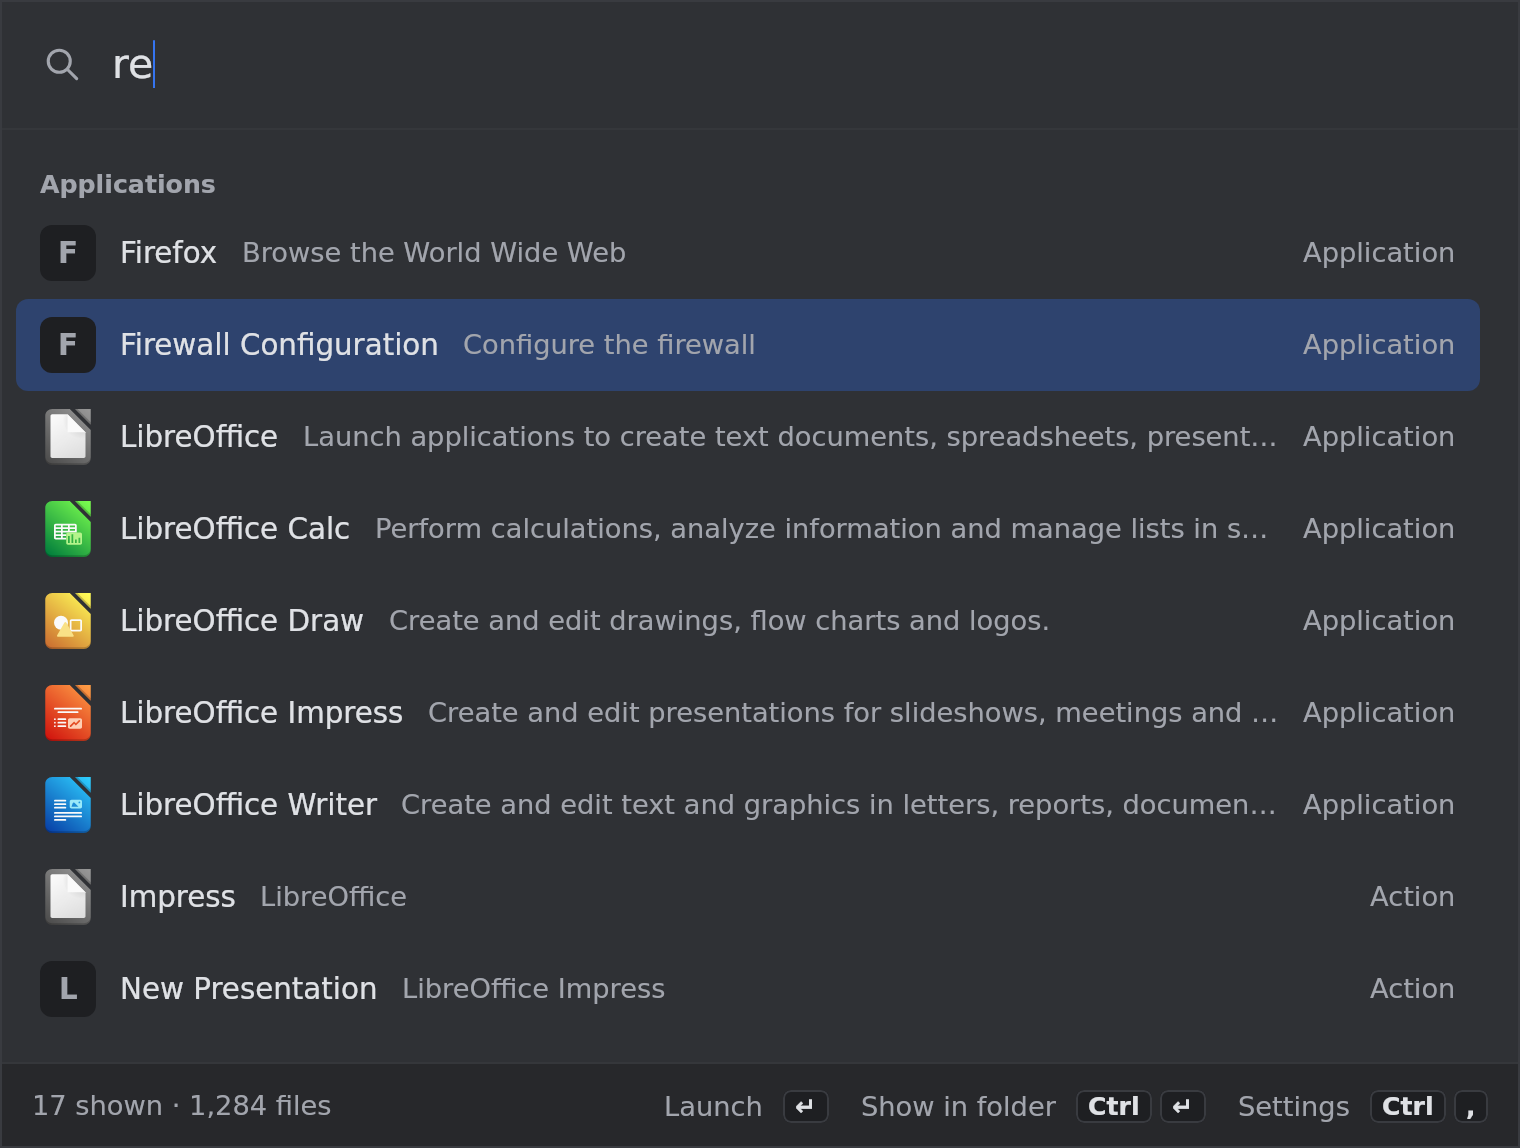
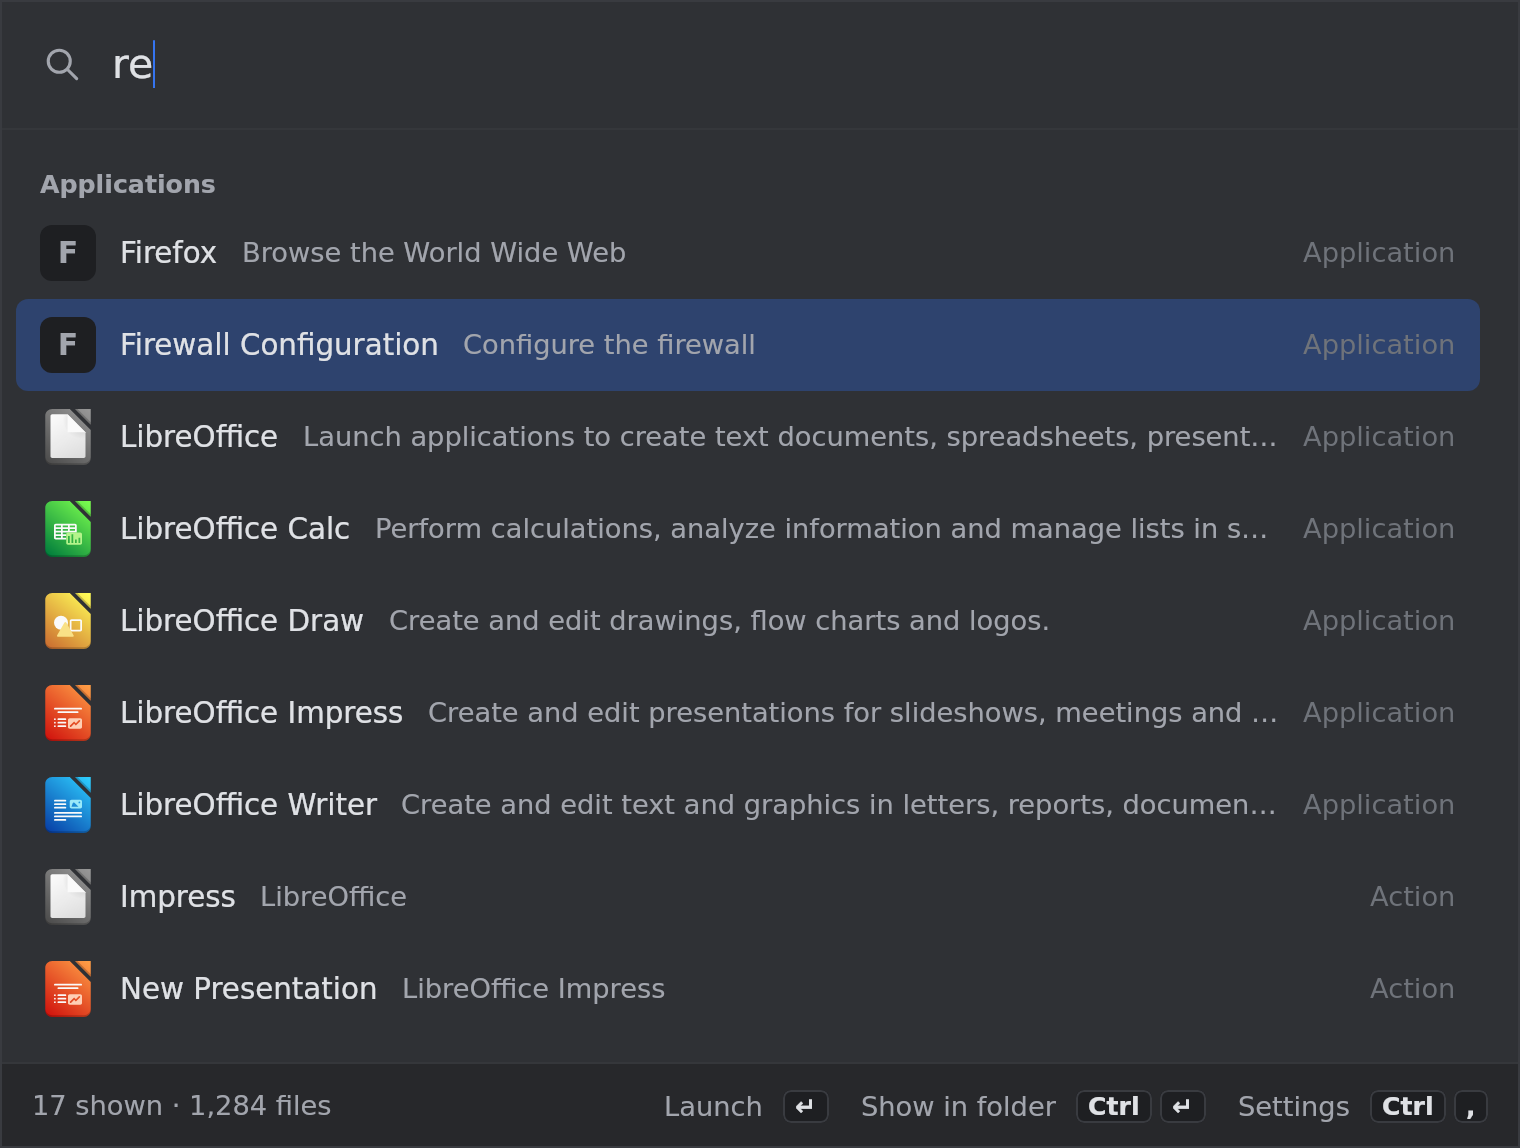
An action without a picture of its own has its application's; what kind a result is, fainter
Claude-Session: https://claude.ai/code/session_01J1r69Jaca9mCPXayHaXTAB

diff --git a/launcher/src/main/kotlin/prism/launcher/view.kt b/launcher/src/main/kotlin/prism/launcher/view.kt
@@ -268,9 +268,19 @@ private fun EntryIcon(entry: Entry, size: Dp) {
 
 	Box(Modifier.size(size), contentAlignment = Alignment.Center) {
 		when (entry) {
-			is Entry.App -> AppIcon(entry.application.icon, entry.application.name, size)
+			is Entry.App ->
+				AppIcon(
+					listOfNotNull(entry.application.icon),
+					entry.application.name,
+					size,
+				)
+			// An action's own picture, and its application's where the icon theme has none for the action.
 			is Entry.Action ->
-				AppIcon(entry.action.icon ?: entry.application.icon, entry.application.name, size)
+				AppIcon(
+					listOfNotNull(entry.action.icon, entry.application.icon),
+					entry.application.name,
+					size,
+				)
 			is Entry.File ->
 				GlyphIcon(
 					if (entry.isFolder) Glyph.Folder else Glyph.File,
@@ -292,16 +302,22 @@ private fun EntryIcon(entry: Entry, size: Dp) {
 }
 
 /**
- * The icon [name], as the desktop's icon theme has it, [size] across; while it is read, and where an application has
- * none, the first letter of its [label] on a tile, so that every row has something to be known by.
+ * The first of the icons [names] that the desktop's icon theme has, [size] across; while it is read, and where it has
+ * none of them, the first letter of [label] on a tile, so that every row has something to be known by.
  */
 @Composable
-private fun AppIcon(name: String?, label: String, size: Dp) {
+private fun AppIcon(names: List<String>, label: String, size: Dp) {
 	val images = LocalIconImages.current
 	val pixels = with(LocalDensity.current) { size.toPx().roundToInt() }
 
-	val image by produceState(name?.let { images.kept(it, pixels) }, name, pixels) {
-		value = name?.let { images.of(it, pixels) }
+	val image by produceState(
+		names.firstNotNullOfOrNull {
+			images.kept(it, pixels)
+		},
+		names,
+		pixels,
+	) {
+		value = names.firstNotNullOfOrNull { images.of(it, pixels) }
 	}
 
 	image?.let {

diff --git a/browser/src/main/kotlin/prism/browser/results.kt b/browser/src/main/kotlin/prism/browser/results.kt
@@ -208,6 +208,11 @@ fun RowScope.ResultText(title: String, detail: String, kind: String = "") {
 	)
 	if (kind.isNotEmpty()) {
 		Spacer(Modifier.width(Space.m))
-		Text(kind, style = type.muted, maxLines = 1)
+		// Fainter than what is said of the result: it is the same word down most of a list.
+		Text(
+			kind,
+			style = type.muted.copy(color = LocalPalette.current.textFaint),
+			maxLines = 1,
+		)
 	}
 }
